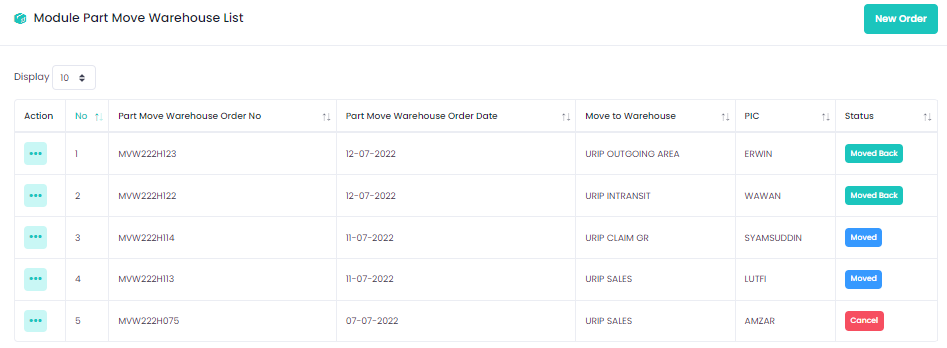
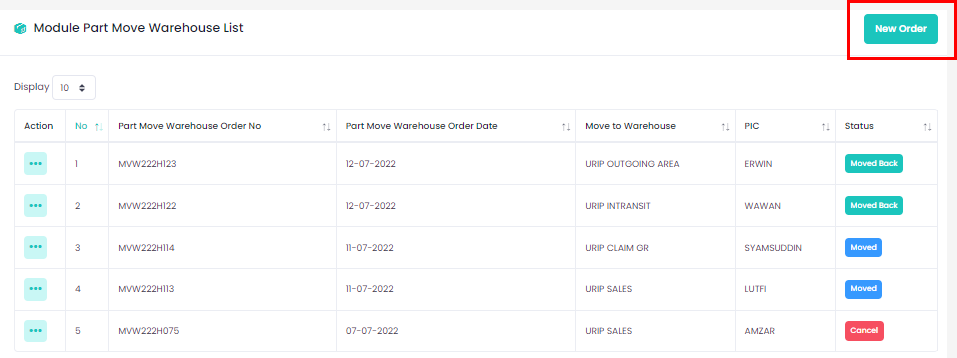
first-commit

diff --git a/docs/general-repair/reception/reception.md b/docs/general-repair/reception/reception.md
@@ -217,7 +217,7 @@ maka akan muncul form seperti dibawah ini.
 |--------|--------|
 | Work Order No |Nomor yang ter generate otomatis oleh sistem. |
 | Work Order Date |Tanggal dibuat nya work order |
-| Work Order Status | **None** : Status awal WO, **Waiting for reception** : Menunggu penerimaan SA, **Reception**	: Proses Penerimaan, **Inspection** : Inspeksi Job, **Waiting for document checking** : Menunggu pengecekan dokumen, **Document checking**	: Pengecekan dokumen, **Waiting for invoice** : Menunggu pembuatan invoice, **Invoice**	: Pembuatan invoice selesai, **Waiting for payment** : Menunggu pembayaran, **Cancel** : dibatalkan, **Waiting Approval** : menunggu persetujuan atasan |
+| Work Order Status | **None** : Status awal WO, **Waiting for reception** : Menunggu penerimaan SA, **Reception**	: Proses Penerimaan, **Waiting for document checking** : Menunggu pengecekan dokumen, **Document checking**	: Pengecekan dokumen, **Waiting for invoice** : Menunggu pembuatan invoice, **Invoice**	: Pembuatan invoice selesai, **Waiting for payment** : Menunggu pembayaran, **Cancel** : dibatalkan, **Waiting Approval** : menunggu persetujuan atasan |
 | Repair Type | Jenis perbaikan *(terisi otomatis)* |
 | Remark | Catatan jika diperlukan (tidak wajib) |
 
@@ -320,6 +320,69 @@ Keterangan :
 ![Docusaurus Plushie](/img/general-repair/print-wo/1.png)
 
 ![Docusaurus Plushie](/img/general-repair/print-wo/2.png)
+
+
+### **Add Program/Insurance**
+
+> Berikut ini adalah langkah-langkah cara menambahkan program atau insurance baik itu di job maupun part.
+
+![Docusaurus Plushie](/img/general-repair/doc-checking/5.png)
+
+Untuk memulai proses penambahan program atau insurance, klik ![Docusaurus Plushie](/img/general-repair/doc-checking/tigatitik.png) lalu akan muncul tampilan seperti dibawah ini.
+
+![Docusaurus Plushie](/img/general-repair/doc-checking/7.png)
+
+klik button ![Docusaurus Plushie](/img/general-repair/doc-checking/tigatitik.png), maka akan muncul form job seperti dibawah ini.
+
+![Docusaurus Plushie](/img/general-repair/doc-checking/8.png)
+
+*Keterangan :*
+
+1. **Pilih Insurance** : Masukkan nama insurer nya.
+2. **Pilih Program** : Masukkan nama pihak ke-3 penyedia program.
+
+Pilih salah satu penyedia potongan harga, lalu klik button ![Docusaurus Plushie](/img/general-repair/doc-checking/save.png) pada bagian kanan bawah form.
+
+### **Request Discount**
+
+:::info
+
+proses ini membutuhkan approval :
+
+- Diskon 1 - 15 % : Kepala Bengkel
+- Diskon 16 - 25 % : Kepala Bengkel -> Kepala Cabang
+- Diskon 26 - 100 % : Kepala Bengkel -> Kepala Cabang -> MO (Head Office) -> GM (Head Office)
+
+:::
+
+> Berikut adalah cara memasukkan diskon baik itu di job maupun part
+
+![Docusaurus Plushie](/img/general-repair/doc-checking/5.png)
+
+Untuk memulai proses penambahan diskon, klik ![Docusaurus Plushie](/img/general-repair/doc-checking/tigatitik.png) lalu akan muncul tampilan seperti dibawah ini.
+
+![Docusaurus Plushie](/img/general-repair/doc-checking/9.png)
+
+klik button ![Docusaurus Plushie](/img/general-repair/doc-checking/tigatitik.png), maka akan muncul form job seperti dibawah ini.
+
+![Docusaurus Plushie](/img/general-repair/doc-checking/10.png)
+
+setelah di pilih diskon nya, klik button ![Docusaurus Plushie](/img/general-repair/doc-checking/save.png)
+
+lalu akan muncul alert **Success**
+
+![Docusaurus Plushie](/img/general-repair/doc-checking/success.png)
+
+pada bagian bawah kanan list view klik button ![Docusaurus Plushie](/img/general-repair/doc-checking/reqdiskon.png)
+
+lalu akan muncul tampilan form kecil seperti di bawah ini.
+
+![Docusaurus Plushie](/img/general-repair/doc-checking/11.png)
+
+deskripsikan alasan nya permintaan diskon tersebut, setelah itu klik button ![Docusaurus Plushie](/img/general-repair/doc-checking/process.png)
+
+maka proses pengajuan selesai tinggal menunggu approval dari atasan.
+
 
 ### **Cancel Work Order**
 

diff --git a/docs/partmanog.md b/docs/partmanog.md
@@ -208,7 +208,35 @@ proses ini membutuhkan approval **Kepala Bengkel**
 
 > Menu ini digunakan jika ada user atau karyawan yang meminjam part dari gudang baik itu untuk kebutuhan event maupun untuk kebutuhan display, cara nya ialah pilih menu **Partman - Move Warehouse**
 
+lalu pada bagian kanan kiri atas klik button ![Docusaurus Plushie](/img/partman-og/move-warehouse/neworder.png)
+
 ![Docusaurus Plushie](/img/partman-og/move-warehouse/1.png)
+
+lalu pada inputan **PIC** masukkan nama penanggung jawab yang meminjam dan inputan **Move To Warehouse** pilih opsi tujuan peminjaman lalu klik button ![Docusaurus Plushie](/img/partman-og/move-warehouse/saveform.png)
+
+![Docusaurus Plushie](/img/partman-og/move-warehouse/2.png)
+
+maka akan muncul tampilan seperti di bawah ini, klik button ![Docusaurus Plushie](/img/partman-og/move-warehouse/addnew.png)
+
+![Docusaurus Plushie](/img/partman-og/move-warehouse/3.png)
+
+pada form di bawah ini sebagai contoh, untuk gambar dibawah penulis mengeluarkan part dengan nama **TMO BRAKE CLEANER** dengan quantity yang di keluarkan 3 (tiga), caranya pada inputan **Part No** pilih nomor partnya secara otomatis **Part Name** terisi setelah itu input quantity lalu klik button ![Docusaurus Plushie](/img/partman-og/move-warehouse/save.png)
+
+![Docusaurus Plushie](/img/partman-og/move-warehouse/4.png)
+
+maka part yang telah dinput akan muncul di list view dibawah, setelah itu klik button ![Docusaurus Plushie](/img/partman-og/move-warehouse/movewarehouse.png)
+
+![Docusaurus Plushie](/img/partman-og/move-warehouse/5.png)
+
+setelah form move warehouse selesai diisi, maka sisa menunggu approval dari **Kepala Bengkel**, sambil menunggu approval silahkan cetak terlebih dahulu bukti peminjaman dan di approve secara manual antara pihak partsman dan juga Penanggung jawab, dengan cara klik button ![Docusaurus Plushie](/img/partman-og/move-warehouse/titiktiga.png) lalu klik ![Docusaurus Plushie](/img/partman-og/move-warehouse/print.png)
+
+![Docusaurus Plushie](/img/partman-og/move-warehouse/6.png)
+
+![Docusaurus Plushie](/img/partman-og/move-warehouse/7.png)
+
+setelah form di setujui maka status nya berubah menjadi **Moved** seperti pada gambar di bawah ini.
+
+![Docusaurus Plushie](/img/partman-og/move-warehouse/8.png)
 
 ---
 ### Service Part Supply

diff --git a/docs/general-repair/security-gate/security-gate.md b/docs/general-repair/security-gate/security-gate.md
@@ -51,7 +51,7 @@ Setelah security selesai menginput data plat nomor kendaraan, klik button ![Docu
 
 ### **Reception & Dashboard Queue**.
 
-Aplikasi Dashboard Antrian sebaiknya dipasang dalam sebuah PC dengan layar monitor berukuran minimum 32” dan disarankan untuk menggunakan pengeras suara jika ruang tunggu service berukuran luas atau dengan tingkat kebisingan sedang. Aplikasi ini menampilkan daftar antrian aktif yang dapat dilihat langsung oleh Customer dan menghasilkan suara panggilan ketika Service Advisor melakukan aksi ![Docusaurus Plushie](/img/general-repair/reception/next.png). 
+Aplikasi Dashboard Antrian sebaiknya dipasang dalam sebuah PC dengan layar monitor berukuran minimum 32” dan disarankan untuk menggunakan pengeras suara jika ruang tunggu service berukuran luas atau dengan tingkat kebisingan sedang. Aplikasi ini menampilkan daftar antrian aktif yang dapat dilihat langsung oleh Customer dan menghasilkan suara panggilan ketika Service Advisor melakukan klik pada button ![Docusaurus Plushie](/img/general-repair/reception/next.png). 
 
 Berikut adalah tampilan Dashboard Antrian:
 
@@ -70,7 +70,7 @@ Berikut adalah penjelasan kolom – kolom pada list reception queue :
 | Arrival Time | Tanggal dan Jam Customer masuk ke bengkel |
 | Vehicle Unit | Kendaraan Customer yang terdaftar dalam sistem. |
 | New Customer | Nomor Plat kendaraan untuk Customer yang belum ter-register dalam sistem, atau Customer yang nomor kendaraannya berubah dari data yang terakhir kali tercatat dalam sistem |
-| In Call | Nomor antrian yang sementara di panggil. |
+| In Call | Tercentang jika customer yang sementara di panggil. |
 | Status | Status antrian kendaraan. |
 | Service Advisor | SA yang memanggil antrian/Customer. |
 | Branch | Cabang bengkel aktif. |

diff --git a/docs/general-repair/doc-checking/doc-checking.md b/docs/general-repair/doc-checking/doc-checking.md
@@ -74,7 +74,7 @@ proses ini membutuhkan approval :
 
 - Diskon 1 - 15 % : Kepala Bengkel
 - Diskon 16 - 25 % : Kepala Bengkel -> Kepala Cabang
-- Diskon 26 - 100 % : Kepala Bengkel -> Kepala Cabang -> MO (Head Office) -> GM (Head Office)
+- Diskon 26 - 100 % : Kepala Bengkel -> Kepala Cabang -> Aftersales Manager Operation (Head Office) -> Aftersales General Manager (Head Office)
 
 :::
 

diff --git a/docs/general-repair/exit-permit/exit-permit.md b/docs/general-repair/exit-permit/exit-permit.md
@@ -23,3 +23,5 @@ kemukakan alasan **Exit Permit** lalu klik button ![Docusaurus Plushie](/img/gen
 setelah permintaan Exit Permit disetujui oleh atasan, maka giliran Service Advisor untuk mencetak exit permit untuk customer.
 
 ![Docusaurus Plushie](/img/general-repair/exit-permit/2.png)
+
+secara otomatis **status Work Order berubah dari Invoice menjadi Delivered**.
